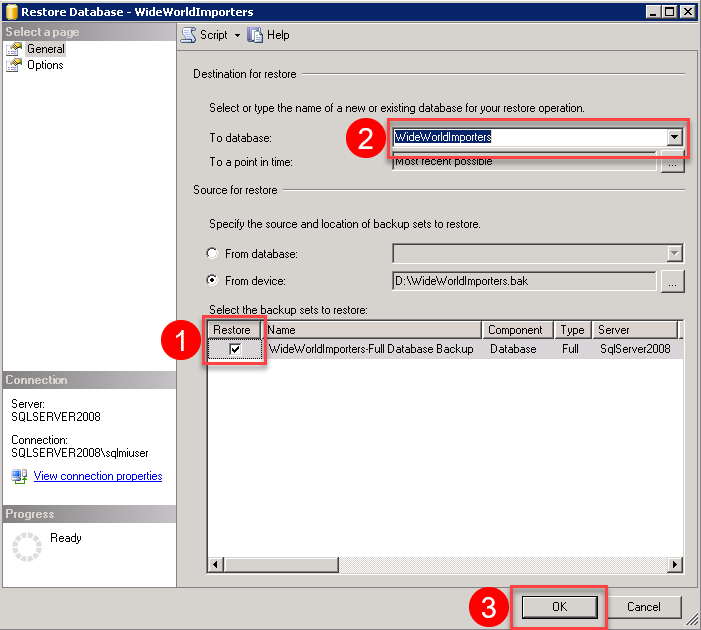
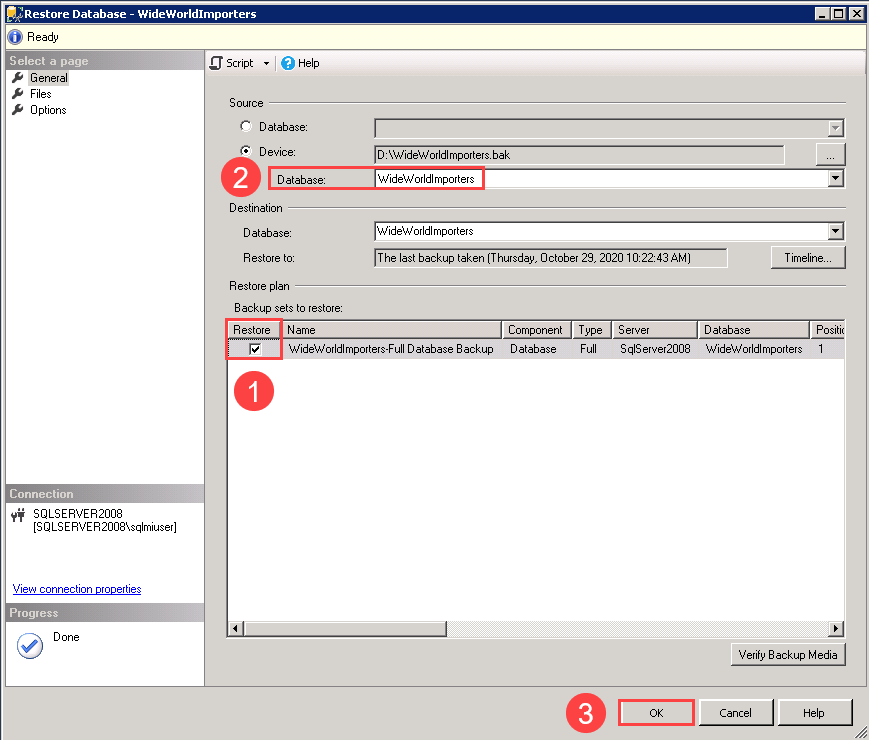
Minor updates to screenshots in SSMS.

diff --git a/Hands-on lab/HOL step-by-step - Migrating SQL databases to Azure.md b/Hands-on lab/HOL step-by-step - Migrating SQL databases to Azure.md
@@ -9,7 +9,7 @@ Hands-on lab step-by-step guide
 </div>
 
 <div class="MCWHeader3">
-September 2021
+October 2021
 </div>
 
 Information in this document, including URL and other Internet Web site references, is subject to change without notice. Unless otherwise noted, the example companies, organizations, products, domain names, e-mail addresses, logos, people, places, and events depicted herein are fictitious, and no association with any real company, organization, product, domain name, e-mail address, logo, person, place or event is intended or should be inferred. Complying with all applicable copyright laws is the responsibility of the user. Without limiting the rights under copyright, no part of this document may be reproduced, stored in or introduced into a retrieval system, or transmitted in any form or by any means (electronic, mechanical, photocopying, recording, or otherwise), or for any purpose, without the express written permission of Microsoft Corporation.
@@ -362,13 +362,13 @@ In this task, you create a new SMB network share on the SqlServer2008 VM. DMS us
 
 In this task, you use the SQL Server Configuration Manager to update the service account used by the SQL Server (MSSQLSERVER) service to the `sqlmiuser` account. Changing the account used for this service ensures it has the appropriate permissions to write backups to the shared folder.
 
-1. On your SqlServer2008 VM, select the **Start menu**, enter **sql configuration** into the search bar, and then select **SQL Server Configuration Managed** from the search results.
+1. On your SqlServer2008 VM, select the **Start menu**, enter **sql configuration** into the search bar, and then select **SQL Server Configuration Manager** from the search results.
 
    ![In the Windows Start menu, "sql configuration" is entered into the search box, and SQL Server Configuration Manager is highlighted in the search results.](media/windows-start-sql-configuration-manager.png "Windows search")
 
    > **Note**: Be sure to choose **SQL Server Configuration Manager**, and not **SQL Server 2017 Configuration Manager**, which does not work for the installed SQL Server 2008 R2 database.
 
-2. In the SQL Server Configuration Managed dialog, select **SQL Server Services** from the tree view on the left, then right-click **SQL Server (MSSQLSERVER)** in the list of services and select **Properties** from the context menu.
+2. In the SQL Server Configuration Manager dialog, select **SQL Server Services** from the tree view on the left, then right-click **SQL Server (MSSQLSERVER)** in the list of services and select **Properties** from the context menu.
 
    ![SQL Server Services is selected and highlighted in the tree view of the SQL Server Configuration Manager. In the Services pane, SQL Server (MSSQLSERVER) is selected and highlighted. Properties is highlighted in the context menu.](media/sql-server-configuration-manager-services.png "SQL Server Configuration Manager")
 
@@ -407,7 +407,7 @@ To perform online data migrations, DMS looks for database and transaction log ba
 
    ![In the SSMS Object Explorer, the context menu for the WideWorldImporters database is displayed, with Tasks and Back Up... highlighted.](media/ssms-backup.png "SSMS Backup")
 
-4. In the Back Up Database dialog, you should see `C:\WideWorldImporters.bak` listed in the Destinations box. This device is no longer needed, so select it and then select **Remove**.
+4. In the Back Up Database dialog, you should see `D:\WideWorldImporters.bak` listed in the Destinations box. This device is no longer needed, so select it and then select **Remove**.
 
    ![In the General tab of the Back Up Database dialog, C:\WideWorldImporters.bak is selected, and the Remove button is highlighted under destinations.](media/ssms-back-up-database-general-remove.png)
 

diff --git a/Hands-on lab/Before the HOL - Migrating SQL databases to Azure.md b/Hands-on lab/Before the HOL - Migrating SQL databases to Azure.md
@@ -9,7 +9,7 @@ Before the hands-on lab setup guide
 </div>
 
 <div class="MCWHeader3">
-June 2021
+October 2021
 </div>
 
 Information in this document, including URL and other Internet Web site references, is subject to change without notice. Unless otherwise noted, the example companies, organizations, products, domain names, e-mail addresses, logos, people, places, and events depicted herein are fictitious, and no association with any real company, organization, product, domain name, e-mail address, logo, person, place or event is intended or should be inferred. Complying with all applicable copyright laws is the responsibility of the user. Without limiting the rights under copyright, no part of this document may be reproduced, stored in or introduced into a retrieval system, or transmitted in any form or by any means (electronic, mechanical, photocopying, recording, or otherwise), or for any purpose, without the express written permission of Microsoft Corporation.
@@ -29,10 +29,10 @@ Microsoft and the trademarks listed at <https://www.microsoft.com/en-us/legal/in
 - [Migrating SQL databases to Azure before the hands-on lab setup guide](#migrating-sql-databases-to-azure-before-the-hands-on-lab-setup-guide)
   - [Requirements](#requirements)
   - [Before the hands-on lab](#before-the-hands-on-lab)
-- [Task 1: Create a resource group](#task-1-create-a-resource-group)
-- [Task 2: Register the Microsoft DataMigration resource provider](#task-2-register-the-microsoft-datamigration-resource-provider)
-- [Task 3: Validate subscription compatibility with SQL MI](#task-3-validate-subscription-compatibility-with-sql-mi)
-- [Task 4: Run ARM template to provision lab resources](#task-4-run-arm-template-to-provision-lab-resources)
+    - [Task 1: Create a resource group](#task-1-create-a-resource-group)
+    - [Task 2: Register the Microsoft DataMigration resource provider](#task-2-register-the-microsoft-datamigration-resource-provider)
+    - [Task 3: Validate subscription compatibility with SQL MI](#task-3-validate-subscription-compatibility-with-sql-mi)
+    - [Task 4: Run ARM template to provision lab resources](#task-4-run-arm-template-to-provision-lab-resources)
 
 <!-- /TOC -->
 

diff --git a/Hands-on lab/Manual-resource-setup.md b/Hands-on lab/Manual-resource-setup.md
@@ -2,7 +2,7 @@
 
 This guide provides step-by-step instructions to manually provision and the configure resources created by the ARM template referenced in the before the hands-on lab guide.
 
-June 2021
+October 2021
 
 **Contents**
 
@@ -666,7 +666,7 @@ In this task, you restore and configure the `WideWorldImporters` database on the
 
    ![In the SSMS Object Explorer, the context menu for Databases is displayed and Restore Database is highlighted.](media/ssms-databases-restore.png "SSMS Object Explorer")
 
-5. You will now restore the `WideWorldImporters` database using the downloaded `WideWorldImporters.bak` file. On the **General** page of the Restore Database dialog, select **From device** under Source, and then select the Browse (`...`) button to the right of the Device box.
+5. You will now restore the `WideWorldImporters` database using the downloaded `WideWorldImporters.bak` file. On the **General** page of the Restore Database dialog, select **Device** under Source, and then select the Browse (`...`) button to the right of the Device box.
 
    ![Under Source in the Restore Database dialog, Device is selected and highlighted, and the Browse button is highlighted.](media/ssms-restore-database-source.png "Restore Database source")
 
@@ -680,7 +680,7 @@ In this task, you restore and configure the `WideWorldImporters` database on the
 
 8. Select **OK** on the **Select backup devices** dialog. This returns you to the Restore Database dialog. The dialog now contains the information required to restore the `WideWorldImporters` database.
 
-9. Select the restore check mark. Select **WideWorldImporters** from **to database** menu. Then, select **OK** to start to restore.
+9. Select the restore check mark. Select **WideWorldImporters** from the **Database** menu. Then, select **OK** to start to restore.
 
    ![The completed Restore Database dialog is displayed, with the WideWorldImporters database specified as the target.](media/ssms-restore-database.png "Restore Database")
 
